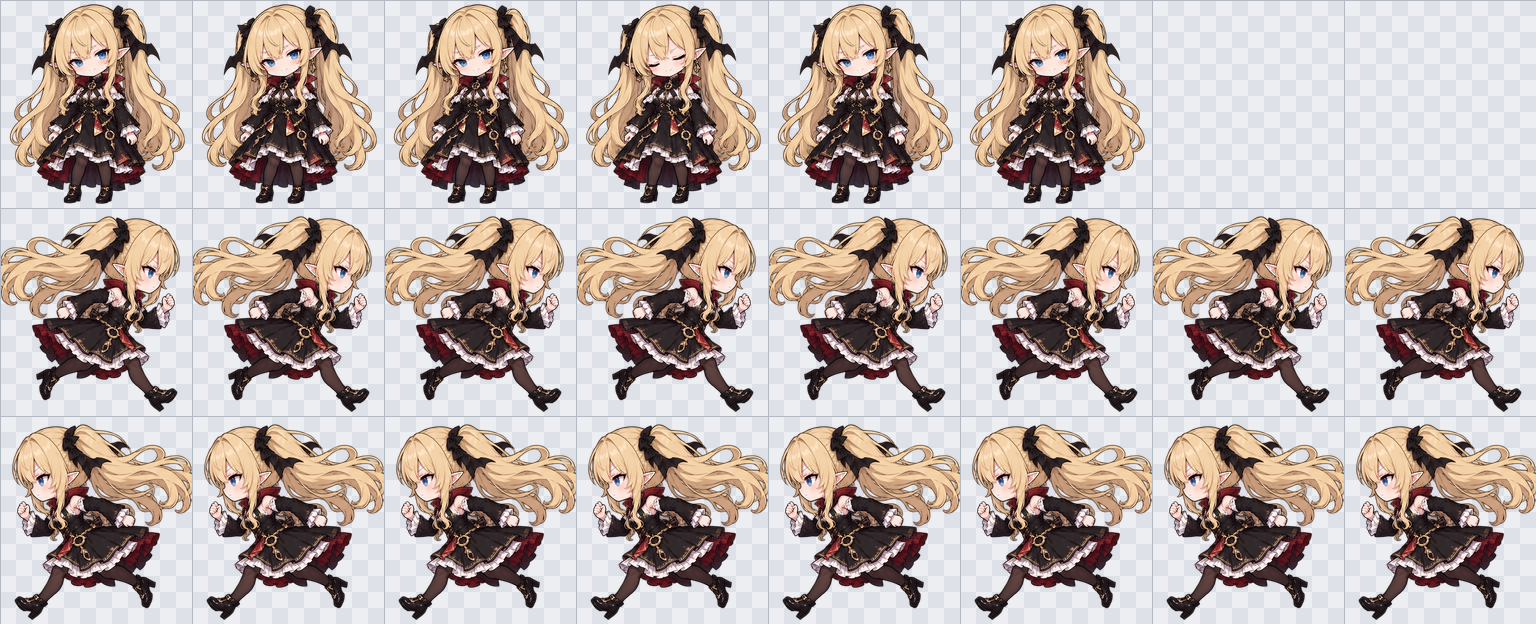
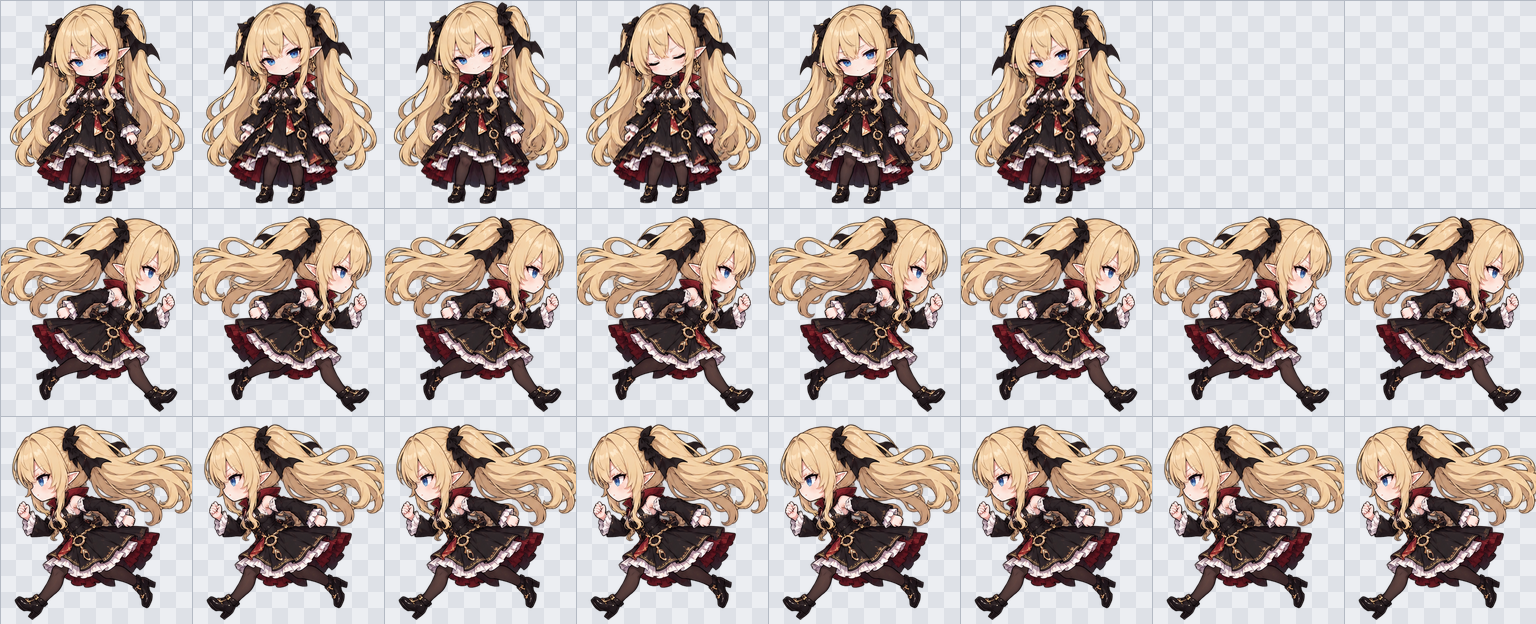
pets: Grok小姐 looks where the cursor is, and breathes at rest
slice_sheet.py --look: a 4×4 sheet of the 16 look directions, cut as the
pose sheet is and put in look/ in order; drawn smaller than the poses, it
is scaled to idle-a's height (its 16 cells' median). --breathe: the idle
row is idle-a stretched 1.000 to 1.015 and back about her feet at y=204,
blinking (idle-b) at index 3. The sheet n×n now (split).

Changed region(s): [[0.125, 0.0, 0.5, 0.274], [0.625, 0.0, 0.75, 0.2436]]

diff --git a/tools/slice_sheet.py b/tools/slice_sheet.py
@@ -3,7 +3,8 @@
 用法：
   python tools/slice_sheet.py <姿勢表.png> <輸出資料夾> [--run-b 檔案] [--id 寵物id] [--name 顯示名]
                               [--fit same|each | --height N] [--preview 預覽.png]
-                              [--crop-preview 裁切預覽.png]
+                              [--crop-preview 裁切預覽.png] [--look 視線表.png] [--breathe]
+                              [--look-preview 視線預覽.png]
 
 姿勢表：3×3，透明背景，格子之間是透明區域，由左到右、由上到下是
   idle-a、idle-b、wave、jump、failed、waiting、working、review、run-a
@@ -21,6 +22,11 @@
      180×200；以人物中心（不透明部分的重心，飄開的頭髮拉不走它）左右置中，超出 192 寬的部分
      直接裁掉，超出上緣的也裁掉。每一格裁掉幾個像素都會印出來，超過 40 px 的標上「!」。
      --crop-preview 另存 jump 和 run-a 裁切後的樣子（上：圖集裡的格子；下：整張，紅色是裁掉的）。
+  --look：4×4 的視線方向表，由左到右、由上到下是 look 的 index 0–15（0 看正上，順時針每
+     22.5°），切法同上，依序放進 look/ 的 16 張（沒有就 16 張都是 idle-a）。視線表的人和姿勢表的
+     畫得不一樣大，所以它用自己的比例：16 格高度的中位數縮成和 idle-a 一樣高；腳底、置中同上。
+  --breathe：idle 列改成 idle-a 的呼吸：6 幀垂直縮放 1.000、1.008、1.015、1.008、1.000、0.995，
+     以腳底為基準（腳底固定在 y=204），index 3 換成 idle-b 眨眼（沒有就是 A A A B A A）。
   3. 排成各列資料夾（<輸出資料夾>/idle/00.png …），running-left 是 running-right 的水平鏡像。
   4. 呼叫 make_sheet.py 產出 data/pets/<id>/spritesheet.webp，並寫 pet.json。
 需要 Pillow 和 NumPy：pip install pillow numpy
@@ -70,10 +76,10 @@ def runs(filled):
     return out
 
 
-def three(filled, what):
-    """切成三段：有東西的區段多於三段時（小碎點），併到最近的大段。"""
+def split(filled, n, what):
+    """切成 n 段：有東西的區段多於 n 段時（小碎點），併到最近的大段。"""
     parts = runs(filled)
-    while len(parts) > 3:
+    while len(parts) > n:
         # 最小的一段併進相鄰、間隔較近的那段。
         i = min(range(len(parts)), key=lambda k: parts[k][1] - parts[k][0])
         left = parts[i][0] - parts[i - 1][1] if i > 0 else None
@@ -81,18 +87,18 @@ def three(filled, what):
         j = i - 1 if right is None or (left is not None and left <= right) else i + 1
         a, b = sorted((i, j))
         parts[a:b + 1] = [(parts[a][0], parts[b][1])]
-    if len(parts) != 3:
-        sys.exit(f'{what}：透明區域只分出 {len(parts)} 段，要 3 段；格子之間要留透明的間隔')
+    if len(parts) != n:
+        sys.exit(f'{what}：透明區域只分出 {len(parts)} 段，要 {n} 段；格子之間要留透明的間隔')
     return parts
 
 
-def cut(sheet):
-    """姿勢表切成 9 格，各自裁到不透明部分的邊。"""
+def cut(sheet, n=3):
+    """n×n 的表切成 n² 格（由左到右、由上到下），各自裁到不透明部分的邊。"""
     a = np.array(sheet.getchannel('A')) > 0
     cells = []
-    for y0, y1 in three(a.any(axis=1), '列'):
+    for y0, y1 in split(a.any(axis=1), n, '列'):
         band = a[y0:y1]
-        for x0, x1 in three(band.any(axis=0), f'第 {len(cells) // 3 + 1} 列的欄'):
+        for x0, x1 in split(band.any(axis=0), n, f'第 {len(cells) // n + 1} 列的欄'):
             cell = sheet.crop((x0, y0, x1, y1))
             cells.append(cell.crop(cell.getbbox()))
     return cells
@@ -129,12 +135,30 @@ def place(im, scale, feet_y, by_mass=False):
     return canvas, cut
 
 
-def rows_of(f):
+# 呼吸：idle 列 6 幀各自的垂直縮放；index 3 是眨眼。
+BREATH = [1.000, 1.008, 1.015, 1.008, 1.000, 0.995]
+BLINK_AT = 3
+
+
+def stretch(cell, f, feet_y=FEET_Y_DEFAULT):
+    """格子垂直縮放 f 倍，y=feet_y 那一行不動（腳底固定）。"""
+    if f == 1:
+        return cell
+    # 輸出的 y 取自來源的 feet_y + (y − feet_y) / f；預乘 alpha 再取樣。
+    out = cell.convert('RGBa').transform(cell.size, Image.AFFINE, (1, 0, 0, 0, 1 / f, feet_y - feet_y / f), resample=Image.BICUBIC)
+    return out.convert('RGBA')
+
+
+def rows_of(f, look=None, breathe=False):
     """各列的幀，照 docs/MAKING_A_PET.md 的列與幀數。"""
     a, b = f['run-a'], f['run-b']
     right = [a, a, b, b, a, a, b, b]
+    if breathe:
+        idle = [stretch(f['idle-b'] if i == BLINK_AT else f['idle-a'], k) for i, k in enumerate(BREATH)]
+    else:
+        idle = [f['idle-a']] * 3 + [f['idle-b']] + [f['idle-a']] * 2
     return {
-        'idle': [f['idle-a']] * 3 + [f['idle-b']] + [f['idle-a']] * 2,
+        'idle': idle,
         'running-right': right,
         'running-left': [ImageOps.mirror(x) for x in right],
         'waving': [f['wave'], f['idle-a'], f['wave'], f['idle-a']],
@@ -143,7 +167,7 @@ def rows_of(f):
         'waiting': [f['waiting']] * 6,
         'running': [f['working']] * 6,
         'review': [f['review']] * 6,
-        'look': [f['idle-a']] * 16,
+        'look': look or [f['idle-a']] * 16,
     }
 
 
@@ -193,10 +217,10 @@ def crop_preview(poses, scale, out, names=('jump', 'run-a'), zoom=2):
     sheet.convert('RGB').resize((w * zoom, h * zoom), Image.NEAREST).save(out)
 
 
-def preview(sheet_path, out, rows=3):
-    """圖集的前幾列，鋪在淺色棋盤格上，畫出格線。"""
+def preview(sheet_path, out, rows=3, first=0):
+    """圖集的幾列（從第 first 列起 rows 列），鋪在淺色棋盤格上，畫出格線。"""
     sheet = Image.open(sheet_path).convert('RGBA')
-    top = sheet.crop((0, 0, sheet.width, CELL_H * rows))
+    top = sheet.crop((0, CELL_H * first, sheet.width, CELL_H * (first + rows)))
     board = board_of(top.size)
     board.alpha_composite(top)
     px = board.load()
@@ -221,6 +245,9 @@ def main():
     p.add_argument('--alpha', type=int, default=8, help='alpha 小於這個值的點當成透明（預設 8）')
     p.add_argument('--preview', help='另存圖集前三列的預覽 PNG')
     p.add_argument('--crop-preview', help='另存 jump 和 run-a 裁切後的樣子')
+    p.add_argument('--look', help='4×4 的視線方向表（look 的 index 0–15）')
+    p.add_argument('--breathe', action='store_true', help='idle 列用 idle-a 產生呼吸，index 3 眨眼')
+    p.add_argument('--look-preview', help='另存圖集 look 兩列（第 9、10 列）的預覽 PNG')
     args = p.parse_args()
 
     pet_id = args.id or Path(args.sheet).stem
@@ -245,8 +272,23 @@ def main():
         said = f'裁掉 左 {trimmed["left"]}、右 {trimmed["right"]}、上 {trimmed["top"]} px' + ('  ! 超過 40 px' if lost > 40 else '')
         print(f'{k:8} {im.width}×{im.height} → {round(im.width * s)}×{round(im.height * s)}（×{s:.3f}）  {said}')
 
+    look = None
+    if args.look:
+        cells = cut(clean(Image.open(args.look).convert('RGBA'), args.alpha), 4)
+        middle = float(np.median([im.height for im in cells]))
+        tall = poses['idle-a'].height * same
+        s = tall / middle
+        print(f'look：16 格高 {min(im.height for im in cells)}–{max(im.height for im in cells)}，中位數 {middle:g} → {tall:.0f}（×{s:.3f}）')
+        look = []
+        for i, im in enumerate(cells):
+            cell, trimmed = place(im, s, FEET_Y_DEFAULT, by_mass=bool(args.height))
+            look.append(cell)
+            lost = trimmed['left'] + trimmed['right'] + trimmed['top']
+            if lost:
+                print(f'look {i:2}  裁掉 左 {trimmed["left"]}、右 {trimmed["right"]}、上 {trimmed["top"]} px' + ('  ! 超過 40 px' if lost > 40 else ''))
+
     out = Path(args.out)
-    for row, images in rows_of(frames).items():
+    for row, images in rows_of(frames, look, args.breathe).items():
         folder = out / row
         if folder.exists():
             shutil.rmtree(folder)
@@ -270,6 +312,9 @@ def main():
     if args.preview:
         preview(pet / 'spritesheet.webp', args.preview)
         print(f'預覽：{args.preview}')
+    if args.look_preview:
+        preview(pet / 'spritesheet.webp', args.look_preview, rows=2, first=make_sheet.LOOK_ROW)
+        print(f'視線預覽：{args.look_preview}')
     if args.crop_preview:
         crop_preview(poses, same, args.crop_preview)
         print(f'裁切預覽：{args.crop_preview}')

diff --git a/art/README.md b/art/README.md
@@ -23,6 +23,6 @@ art/
 - 默认宠物 [大肥鱼/Deepseek Chan](https://codex-pets.net/#/pets/deepseek-chan) 的作者是 Dullsaw；`ocean-maid/` 参考了它的造型。
 - `references/` 里的图版权归各自作者。
 
-- `grok/`（**例外，进仓库**）：Grok 小姐的角色设计参考自 B 站 UP 主「沉默寡言佰佰」的 Grok 4.7 形象，是非官方 Q 版二创。`grok-sheet.png` 是姿势表，`preview-grok.png` 是图集前三行的预览，`preview-grok-crop.png` 是跳和跑两格裁切后的样子；成品在 `data/pets/grok-chan/`，用 `python tools/slice_sheet.py art/grok/grok-sheet.png tools/grok-frames --id grok-chan --name "Grok小姐" --height 200` 重新生成。
+- `grok/`（**例外，进仓库**）：Grok 小姐的角色设计参考自 B 站 UP 主「沉默寡言佰佰」的 Grok 4.7 形象，是非官方 Q 版二创。`grok-sheet.png` 是姿势表，`grok-look.png` 是 4×4 的视线方向表（look 的 16 格），`preview-grok.png` 是图集前三行的预览，`preview-grok-crop.png` 是跳和跑两格裁切后的样子，`preview-grok-look.png` 是 look 两行；成品在 `data/pets/grok-chan/`，用 `python tools/slice_sheet.py art/grok/grok-sheet.png tools/grok-frames --id grok-chan --name "Grok小姐" --height 200 --look art/grok/grok-look.png --breathe` 重新生成。
 
 要把某套素材放进应用（比如做成默认宠物或换掉图标），需要先确认原作者的授权。
